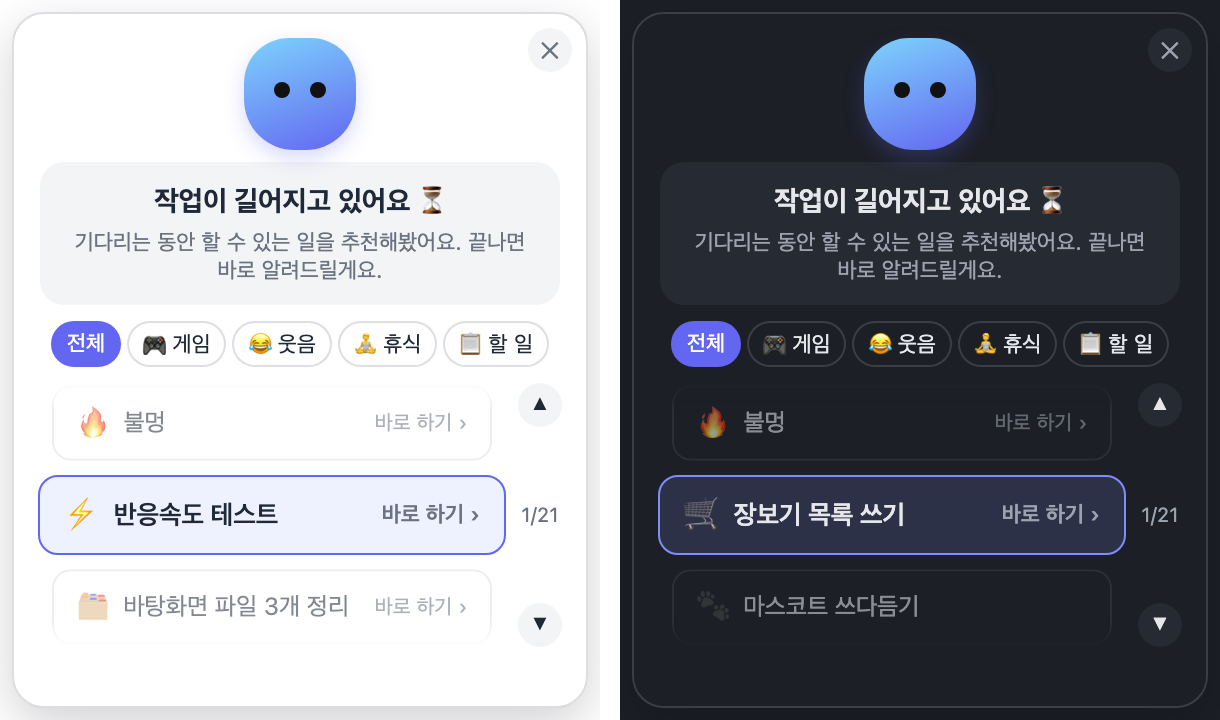
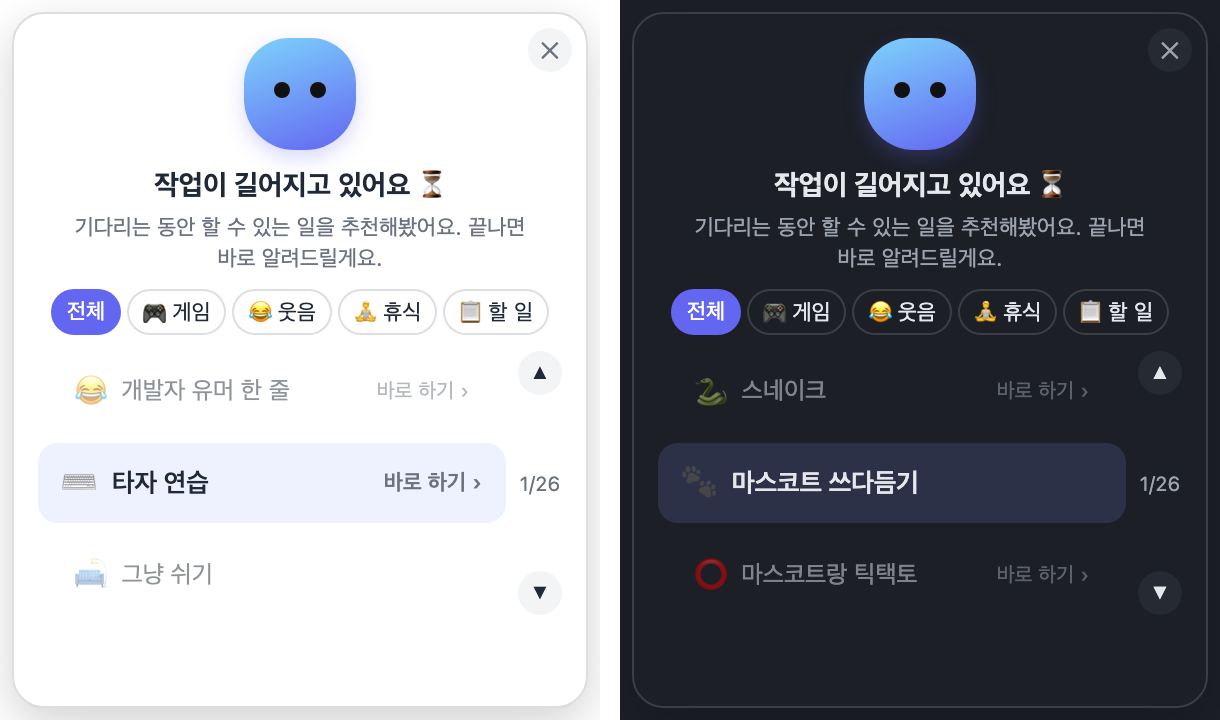
위젯 정리: 카드 안 중첩 상자 제거, Claude·Codex 동시 작업 시 창 하나 유지
- 말풍선·퀘스트 항목의 안쪽 상자를 없애고 가운데 항목만 배경으로 강조
- 한국어 줄바꿈을 단어 단위로
- 작업이 겹치면 창은 하나만 두고, 마지막 작업이 끝날 때 한 번만 삐빅 후 사라짐

diff --git a/mcp/quest-http.js b/mcp/quest-http.js
@@ -107,11 +107,11 @@ function pageShell(bodyHtml) {
   @keyframes hop { 0%, 100% { transform: translateY(0); } 40% { transform: translateY(-8px) scale(1.04); } }
 
   .bubble {
-    background: var(--soft); border-radius: 12px; padding: 10px 12px;
-    text-align: center; margin-top: 6px; max-width: 260px;
+    /* 14차: 카드 안에 상자를 또 두지 않는다 — 말풍선은 글자만. */
+    text-align: center; margin-top: 8px; max-width: 260px; padding: 0 8px;
   }
-  h1 { font-size: 14px; margin: 0 0 2px; line-height: 1.35; }
-  p.sub { color: var(--muted); font-size: 11px; margin: 4px 0 0; line-height: 1.3; }
+  h1 { font-size: 14px; margin: 0 0 2px; line-height: 1.35; word-break: keep-all; }
+  p.sub { color: var(--muted); font-size: 11px; margin: 4px 0 0; line-height: 1.4; word-break: keep-all; }
 
   .budget { display: flex; flex-wrap: wrap; gap: 6px; margin-top: 12px; }
   .budget a {
@@ -121,8 +121,8 @@ function pageShell(bodyHtml) {
   .budget a:hover { background: rgba(0,0,0,0.06); }
   .quest {
     display: flex; align-items: center; gap: 8px; width: 100%; height: 40px; text-align: left;
-    padding: 0 12px; border-radius: 10px; border: 1px solid var(--line);
-    background: var(--card); color: var(--ink); font-size: 13px; cursor: pointer; font-family: inherit;
+    padding: 0 12px; border-radius: 10px; border: none;
+    background: transparent; color: var(--ink); font-size: 13px; cursor: pointer; font-family: inherit;
     transition: transform 0.12s, background 0.12s; flex-shrink: 0;
   }
   .quest span:last-child { overflow: hidden; text-overflow: ellipsis; white-space: nowrap; }
@@ -149,9 +149,9 @@ function pageShell(bodyHtml) {
             mask-image: linear-gradient(transparent 0, #000 14px, #000 calc(100% - 14px), transparent 100%);
   }
   .track { display: flex; flex-direction: column; gap: 6px; will-change: transform; }
-  .track .quest { opacity: 0.55; transform: scale(0.94); transition: opacity 0.25s, transform 0.25s, border-color 0.25s, background 0.25s; }
+  .track .quest { opacity: 0.5; transform: scale(0.94); transition: opacity 0.25s, transform 0.25s, border-color 0.25s, background 0.25s; }
   .track .quest.focus {
-    opacity: 1; transform: scale(1); border-color: var(--accent); background: var(--focus-bg); font-weight: 600;
+    opacity: 1; transform: scale(1); background: var(--focus-bg); color: var(--ink); font-weight: 600;
   }
   .track .quest.focus:active { transform: scale(0.97); }
   .rail { width: 22px; display: flex; flex-direction: column; align-items: center; justify-content: space-between; }

diff --git a/native-widget/src-tauri/src/main.rs b/native-widget/src-tauri/src/main.rs
@@ -193,11 +193,11 @@ fn spawn_auto_popup_watcher(app: tauri::AppHandle) {
         // 이미 한 번 띄운 turn들 — 그 turn 때문에 다시 튀어나오지 않게 (사용자가
         // 닫았거나, 다른 turn이 끝나 숨긴 뒤에도).
         let mut popped: HashSet<String> = HashSet::new();
-        // 11차: 마스코트를 띄운 바로 그 turn. 그 turn이 끝나면(DONE/NEEDS_INPUT/
-        // 다음 turn) 삐빅 울리고 바로 숨긴다 — 게임 중이어도. 예전엔 모든
-        // 세션이 끝나고 1분 뒤에 숨겼는데, 한 작업이 끝나면 바로 사라지게 해달라는
-        // 요청으로 바꿨다.
-        let mut showing: Option<String> = None;
+        // 마스코트를 띄운 뒤로 진행 중인 turn들. 14차: Claude와 Codex를 같이 쓰면
+        // 작업이 겹칠 수 있다 — 창은 하나만 두고, 겹친 작업 중 마지막 것이 끝날
+        // 때 한 번만 삐빅 울리고 숨긴다 (먼저 끝난 쪽이 창을 닫거나, 닫혔다 다시
+        // 뜨지 않게). 작업이 하나뿐이면 예전처럼 그 작업이 끝나면 바로 사라진다.
+        let mut showing: HashSet<String> = HashSet::new();
         loop {
             thread::sleep(Duration::from_secs(2));
             let (turn, active) = read_working_turn(now_ms());
@@ -205,13 +205,11 @@ fn spawn_auto_popup_watcher(app: tauri::AppHandle) {
                 continue;
             };
 
-            if let Some(key) = &showing {
-                if !active.contains(key) {
-                    if window.is_visible().unwrap_or(false) {
-                        beep();
-                        fade_out_and_hide(&window);
-                    }
-                    showing = None;
+            if !showing.is_empty() {
+                showing.retain(|key| active.contains(key));
+                if showing.is_empty() && window.is_visible().unwrap_or(false) {
+                    beep();
+                    fade_out_and_hide(&window);
                 }
             }
             if let Some(turn) = turn {
@@ -224,7 +222,8 @@ fn spawn_auto_popup_watcher(app: tauri::AppHandle) {
                     if !window.is_visible().unwrap_or(false) {
                         auto_show(&window);
                     }
-                    showing = Some(turn);
+                    // 창이 떠 있는 동안 진행 중인 다른 작업도 같이 지켜본다.
+                    showing.extend(active.iter().cloned());
                 }
             }
         }
